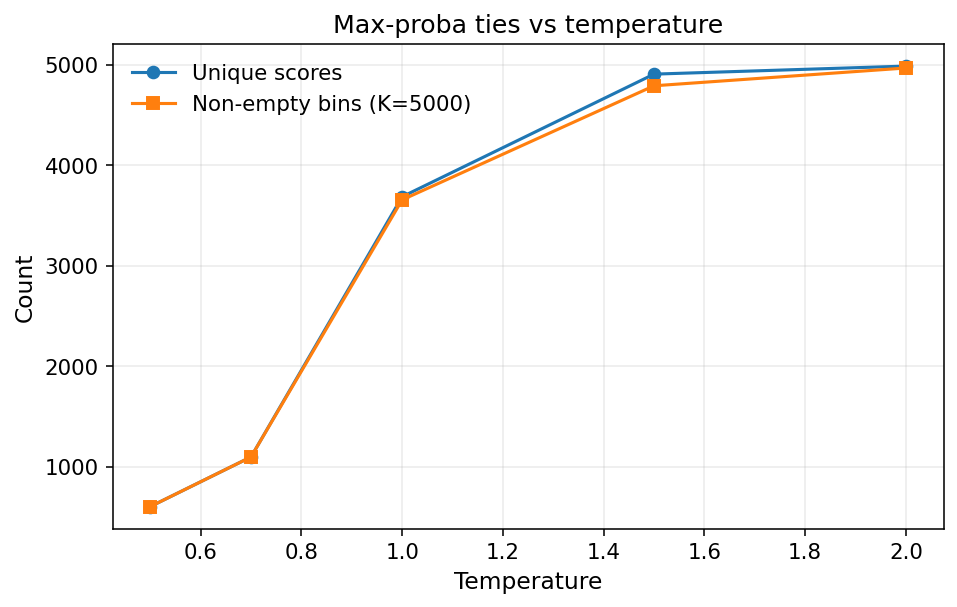
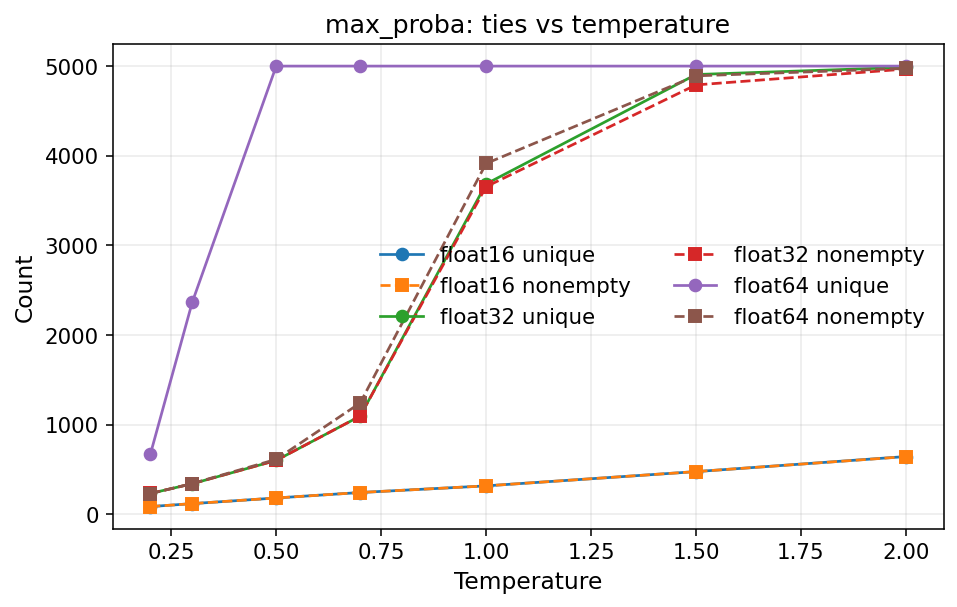
diagnostics: extend temperature precision analysis

diff --git a/scripts/diagnostics/max_proba_temperature_analysis.py b/scripts/diagnostics/max_proba_temperature_analysis.py
@@ -39,9 +39,17 @@ def _parse_float_values(values: list[str]) -> list[float]:
     return parsed
 
 
-def _compute_scores(logits: torch.Tensor, temperature: float) -> torch.Tensor:
+def _compute_scores(logits: torch.Tensor, temperature: float, score: str) -> torch.Tensor:
     probs = torch.softmax(logits / temperature, dim=1)
-    return -probs.max(dim=1).values
+    if score == "max_proba":
+        return -probs.max(dim=1).values
+    if score == "gini":
+        g = torch.sum(probs**2, dim=1)
+        return 1.0 - g
+    if score == "margin":
+        top2 = torch.topk(probs, k=2, dim=1).values
+        return top2[:, 0] - top2[:, 1]
+    raise ValueError(f"Unsupported score: {score}")
 
 
 def _analyze_temperature(scores: torch.Tensor, k: int) -> dict[str, float]:
@@ -54,7 +62,10 @@ def _analyze_temperature(scores: torch.Tensor, k: int) -> dict[str, float]:
             "max_bin_count": float(scores.numel()),
         }
     q = torch.linspace(0.0, 1.0, k + 1, device=scores.device)[1:-1]
-    edges = torch.quantile(scores, q)
+    try:
+        edges = torch.quantile(scores, q)
+    except RuntimeError:
+        edges = torch.quantile(scores.to(torch.float32), q).to(scores.dtype)
     bins = torch.bucketize(scores, edges)
     counts = torch.bincount(bins, minlength=k)
     nonempty = int((counts > 0).sum().item())
@@ -74,12 +85,16 @@ def parse_args() -> argparse.Namespace:
     parser.add_argument("--k", type=int, default=5000, help="Number of bins for quantile binning.")
     parser.add_argument("--n-samples", type=int, default=None, help="Optional subsample size.")
     parser.add_argument("--seed", type=int, default=0, help="Seed for subsampling.")
+    parser.add_argument("--scores", nargs="+", default=["max_proba"], help="Scores to analyze (max_proba/gini/margin).")
+    parser.add_argument("--dtypes", nargs="+", default=["float32"], help="Dtypes to analyze.")
     return parser.parse_args()
 
 
 def main() -> None:
     args = parse_args()
     temps = _parse_float_values(args.temperatures)
+    scores = [s.strip() for s in args.scores]
+    dtypes = [d.strip() for d in args.dtypes]
     latent_path = Path(args.latent_path)
     if not latent_path.exists():
         raise FileNotFoundError(f"Missing latent file: {latent_path}")
@@ -95,38 +110,68 @@ def main() -> None:
         logits = logits[idx]
 
     rows = []
-    for temperature in temps:
-        scores = _compute_scores(logits, temperature)
-        stats = _analyze_temperature(scores, args.k)
-        rows.append(
-            {
-                "temperature": temperature,
-                "unique_scores": stats["unique_scores"],
-                "nonempty_bins": stats["nonempty_bins"],
-                "max_bin_count": stats["max_bin_count"],
-            }
-        )
+    dtype_map = {
+        "float16": torch.float16,
+        "float32": torch.float32,
+        "float64": torch.float64,
+    }
+
+    for score_name in scores:
+        for dtype_name in dtypes:
+            if dtype_name not in dtype_map:
+                raise ValueError(f"Unsupported dtype: {dtype_name}")
+            dtype = dtype_map[dtype_name]
+            eps = float(torch.finfo(dtype).eps)
+            logits_cast = logits.to(dtype)
+            for temperature in temps:
+                score_vals = _compute_scores(logits_cast, float(temperature), score_name)
+                stats = _analyze_temperature(score_vals, args.k)
+                rows.append(
+                    {
+                        "score": score_name,
+                        "dtype": dtype_name,
+                        "eps": eps,
+                        "temperature": float(temperature),
+                        "unique_scores": stats["unique_scores"],
+                        "nonempty_bins": stats["nonempty_bins"],
+                        "max_bin_count": stats["max_bin_count"],
+                    }
+                )
 
     csv_path = out_dir / "max_proba_temperature_summary.csv"
     with csv_path.open("w", newline="", encoding="utf-8") as handle:
-        writer = csv.DictWriter(handle, fieldnames=["temperature", "unique_scores", "nonempty_bins", "max_bin_count"])
+        writer = csv.DictWriter(
+            handle,
+            fieldnames=[
+                "score",
+                "dtype",
+                "eps",
+                "temperature",
+                "unique_scores",
+                "nonempty_bins",
+                "max_bin_count",
+            ],
+        )
         writer.writeheader()
         writer.writerows(rows)
 
-    temps_sorted = [row["temperature"] for row in rows]
-    unique_sorted = [row["unique_scores"] for row in rows]
-    nonempty_sorted = [row["nonempty_bins"] for row in rows]
-
-    fig, ax = plt.subplots(figsize=(7.0, 4.5))
-    ax.plot(temps_sorted, unique_sorted, marker="o", lw=1.6, label="Unique scores")
-    ax.plot(temps_sorted, nonempty_sorted, marker="s", lw=1.6, label=f"Non-empty bins (K={args.k})")
-    ax.set_xlabel("Temperature")
-    ax.set_ylabel("Count")
-    ax.set_title("Max-proba ties vs temperature")
-    ax.legend(frameon=False, loc="best")
-    fig.tight_layout()
-    fig.savefig(out_dir / "max_proba_temperature_plot.png", bbox_inches="tight")
-    plt.close(fig)
+    for score_name in scores:
+        fig, ax = plt.subplots(figsize=(7.0, 4.5))
+        for dtype_name in dtypes:
+            subset = [row for row in rows if row["score"] == score_name and row["dtype"] == dtype_name]
+            subset.sort(key=lambda r: r["temperature"])
+            temps_sorted = [row["temperature"] for row in subset]
+            unique_sorted = [row["unique_scores"] for row in subset]
+            nonempty_sorted = [row["nonempty_bins"] for row in subset]
+            ax.plot(temps_sorted, unique_sorted, marker="o", lw=1.4, label=f"{dtype_name} unique")
+            ax.plot(temps_sorted, nonempty_sorted, marker="s", lw=1.4, linestyle="--", label=f"{dtype_name} nonempty")
+        ax.set_xlabel("Temperature")
+        ax.set_ylabel("Count")
+        ax.set_title(f"{score_name}: ties vs temperature")
+        ax.legend(frameon=False, loc="best", ncol=2)
+        fig.tight_layout()
+        fig.savefig(out_dir / f"{score_name}_temperature_plot.png", bbox_inches="tight")
+        plt.close(fig)
 
 
 if __name__ == "__main__":

diff --git a/docs/max_proba_temperature_report.md b/docs/max_proba_temperature_report.md
@@ -3,35 +3,34 @@
 Last updated: 2026-01-08
 
 ## Objective
-Replicate the unif-mass bin collapse observed on the server and isolate the role of temperature in creating ties for the max-proba score.
+Replicate the unif-mass bin collapse observed on the server and isolate the role of temperature, score choice, and float precision in creating ties.
 
 ## Setup
 - Latent file: `error-estimation/latent_cache/cifar10_resnet34_ce_transform-test_n-epochs-1_full.pt`
 - Subsample: 5000 points (seed=9)
-- Score: `max_proba` (negative max softmax probability)
+- Scores: `max_proba`, `gini`, `margin` (max prob minus second max prob)
 - Binning: uniform-mass with K=5000
-- Temperatures: 0.5, 0.7, 1.0, 1.5, 2.0
+- Temperatures: 0.2, 0.3, 0.5, 0.7, 1.0, 1.5, 2.0
+- Precisions: float16 (eps=9.77e-04), float32 (eps=1.19e-07), float64 (eps=2.22e-16)
 
 ## Results
-Lower temperatures sharpen softmax outputs and increase ties, which collapses many quantile bins (non-empty bins << K). At temperature 0.7, the unique-score count and non-empty bin count match the server observation (1097).
+Lower temperatures sharpen softmax outputs and increase ties, which collapses many quantile bins (non-empty bins << K). At temperature 0.7 with max-proba and float32, the unique-score count and non-empty bin count match the server observation (1097).
 
-| temperature | unique_scores | nonempty_bins | max_bin_count |
-| --- | --- | --- | --- |
-| 0.5 | 603 | 603 | 3701 |
-| 0.7 | 1097 | 1097 | 114 |
-| 1.0 | 3686 | 3655 | 7 |
-| 1.5 | 4906 | 4790 | 3 |
-| 2.0 | 4986 | 4967 | 2 |
+See `docs/partition_binning_assets/max_proba_temperature/max_proba_temperature_summary.csv` for the full grid (scores × temperatures × precisions).
 
 ![Max-proba ties vs temperature](partition_binning_assets/max_proba_temperature/max_proba_temperature_plot.png)
+![Gini ties vs temperature](partition_binning_assets/max_proba_temperature/gini_temperature_plot.png)
+![Margin ties vs temperature](partition_binning_assets/max_proba_temperature/margin_temperature_plot.png)
 
 ## Reproduce
 ```bash
 python scripts/diagnostics/max_proba_temperature_analysis.py \
   --latent-path latent_cache/cifar10_resnet34_ce_transform-test_n-epochs-1_full.pt \
   --output-dir docs/partition_binning_assets/max_proba_temperature \
-  --temperatures 0.5 0.7 1.0 1.5 2.0 \
+  --temperatures 0.2 0.3 0.5 0.7 1.0 1.5 2.0 \
   --k 5000 \
   --n-samples 5000 \
-  --seed 9
+  --seed 9 \
+  --scores max_proba gini margin \
+  --dtypes float16 float32 float64
 ```
